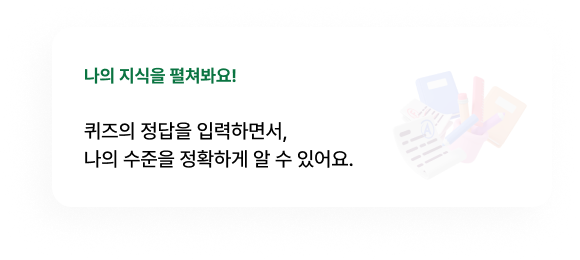
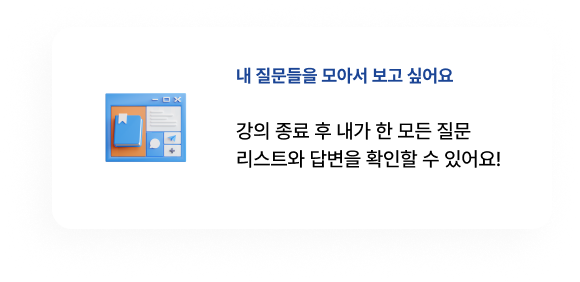
feat. 세종 메인화면

Changed region(s): [[0.1241, 0.2154, 0.869, 0.6462]]

diff --git a/src/templates/HomeSeJong/index.tsx b/src/templates/HomeSeJong/index.tsx
@@ -46,9 +46,9 @@ export function HomeSejongTemplate({ logged = false, tenantName = '' }: HomeSejo
             <p className="tw-absolute tw-top-[60px] md:tw-top-[116px] tw-text-xl md:tw-text-[32px] tw-text-left">
               <span className="tw-text-[40px] tw-font-bold tw-text-left">IoT, 더 나은 세상을 위한 연결 </span>
             </p>
-            <p className="tw-absolute  tw-top-[100px] md:tw-top-[180px] tw-text-lg md:tw-text-lg tw-font-medium tw-text-left">
-              IoT Convergence Open Sharing System & DevUs
-            </p>
+            <div className="tw-absolute  tw-top-[100px] md:tw-top-[180px] tw-text-lg md:tw-text-lg tw-font-medium tw-text-left">
+              IoT Convergence Open Sharing System & <span className="tw-font-bold">DevUs</span>
+            </div>
             <div
               onClick={() => {
                 router.push('/quiz');
@@ -139,22 +139,40 @@ export function HomeSejongTemplate({ logged = false, tenantName = '' }: HomeSejo
       >
         <div className="tw-w-full md:tw-w-[1120px] tw-h-[320px] md:tw-h-[450px] tw-relative tw-overflow-hidden tw-rounded-[20px]">
           <div className="tw-w-full md:tw-w-[1280px] tw-h-[391px] tw-absolute tw-left-0 md:tw-left-[-1px] tw-top-0 md:tw-top-[-30px] tw-bg-white/20" />
-          <p className="tw-absolute tw-left-[24px] tw-top-[40px] md:tw-left-[57px] md:tw-top-[85px] tw-text-base tw-font-medium tw-text-left tw-text-black">
+          <p className="tw-absolute tw-left-[24px] tw-top-[40px] md:tw-left-[57px] md:tw-top-[85px] tw-text-base tw-font-bold tw-text-left tw-text-black">
             IoT Convergence Open Sharing System
           </p>
-          <p className="tw-absolute tw-left-[24px] tw-top-[70px] md:tw-left-[57px] md:tw-top-[146px] tw-text-xl md:tw-text-[32px] tw-text-left tw-text-black">
+          <div className="tw-mt-[130px] tw-ml-[54px] ">
+            <p className="tw-text-[34px] tw-text-left tw-text-black">
+              <span className="tw-text-[34px] tw-text-left tw-text-black">MORE </span>
+              <span className="tw-text-[34px] tw-font-semibold tw-text-left tw-text-black">QUESTION</span>
+              <span className="tw-text-[34px] tw-text-left tw-text-black">, BETTER </span>
+              <span className="tw-text-[34px] tw-font-semibold tw-text-left tw-text-black">QUESTION</span>
+            </p>
+            <div className="tw-flex tw-mt-2">
+              <div className="tw-w-[166px] tw-ml-[110px] tw-h-[3px] tw-bg-[#1b4595]" />
+              <div className="tw-w-[166px] tw-ml-[154px] tw-h-[3px] tw-bg-[#1b4595]" />
+            </div>
+          </div>
+          ;
+          {/* <p className="tw-absolute tw-left-[24px] tw-top-[70px] md:tw-left-[57px] md:tw-top-[146px] tw-text-xl md:tw-text-[32px] tw-text-left tw-text-black">
             <span className="tw-text-xl md:tw-text-[32px] tw-text-left tw-text-black">CREATIVE </span>
             <span className="tw-text-xl md:tw-text-[32px] tw-font-bold tw-text-left tw-text-black">LEADERSHIP</span>
           </p>
-          <div className="tw-w-[48px] md:tw-w-[190px] tw-h-[2px] md:tw-h-[3px] tw-absolute tw-left-[60px] md:tw-left-[210px] tw-top-[90px] md:tw-top-[190px] tw-bg-[#1B4595]" />
+          <p className="tw-absolute tw-left-[224px] tw-top-[70px] md:tw-left-[257px] md:tw-top-[146px] tw-text-xl md:tw-text-[32px] tw-text-left tw-text-black">
+            <span className="tw-text-xl md:tw-text-[32px] tw-text-left tw-text-black">CREATIVE </span>
+            <span className="tw-text-xl md:tw-text-[32px] tw-font-bold tw-text-left tw-text-black">LEADERSHIP</span>
+          </p> */}
+          {/* <div className="tw-w-[48px] md:tw-w-[190px] tw-h-[2px] md:tw-h-[3px] tw-absolute tw-left-[60px] md:tw-left-[210px] tw-top-[90px] md:tw-top-[190px] tw-bg-[#1B4595]" /> */}
           <p className="tw-absolute tw-left-[24px] tw-top-[110px] md:tw-left-[57px] md:tw-top-[239px] tw-text-sm md:tw-text-base tw-font-medium tw-text-left tw-text-black">
-            각 분야의 전문가들이 메이커로서 핵심 질문과 아티클을 답으로 제시합니다.
+            누구나 처음은 어렵습니다. 생소한 키워드, 이해되지 않는 설명, 나만 모르는 것 같은 수업 내용들
             <br />
-            관리자는 클럽을 만들고 학습자들이 함께 풀 문제를 엄선합니다.
+            질문이 망설여진다면 이제는 AI조교에서 편하고 빠르게 질문하세요.
             <br />
-            학습자는 관리자만 따라가면 대한민국 최고의 전문가로 성장할 수 있습니다.
+            교수님이 직접 큐레이션한 자료와 강의 내용을 기반으로 AI가 실시간으로 답하고,
+            <br />
+            강의에서 학습자들이 질문한 내용을 교수님께 전달해 더 좋은 수업을 만듭니다.
           </p>
-
           <img
             src="/assets/images/main/006_1.png"
             className="tw-hidden lg:tw-block tw-w-[200px] md:tw-w-[360px] tw-h-[290px] md:tw-h-[360px] tw-absolute tw-left-[calc(50%-100px)] md:tw-left-[735px] tw-top-[100px] md:tw-top-[43px] tw-object-cover"
@@ -177,12 +195,12 @@ export function HomeSejongTemplate({ logged = false, tenantName = '' }: HomeSejo
           <div className="tw-w-full tw-flex tw-flex-col md:tw-flex-row tw-gap-4 md:tw-gap-10">
             <img
               src="/assets/images/main/memo1.png"
-              className="tw-w-full md:tw-w-1/2 tw-h-[195px] md:tw-h-auto tw-overflow-hidden tw-rounded-[20px] tw-m-1 md:tw-m-0"
+              className="tw-w-full md:tw-w-1/2 tw-h-[202px] md:tw-h-auto tw-overflow-hidden tw-rounded-[20px] tw-m-1 md:tw-m-0"
             />
 
             <img
               src="/assets/images/main/memo2.png"
-              className="tw-w-full md:tw-w-1/2 tw-h-[195px] md:tw-h-auto tw-object-cover tw-rounded-[20px] tw-m-1 md:tw-m-0"
+              className="tw-w-full md:tw-w-1/2 tw-h-[202px] md:tw-h-auto tw-object-cover tw-rounded-[20px] tw-m-1 md:tw-m-0"
             />
           </div>
         </div>
@@ -211,46 +229,32 @@ export function HomeSejongTemplate({ logged = false, tenantName = '' }: HomeSejo
 
           {/* 두 번째 섹션 */}
           <div
-            className={cx('tw-flex tw-flex-col md:tw-flex-row tw-justify-center tw-items-center tw-gap-6 md:tw-gap-12')}
+            className={cx(
+              'tw-flex tw-flex-col md:tw-flex-row tw-justify-center tw-items-center tw-gap-10 md:tw-gap-12',
+            )}
           >
-            <img
-              src="/assets/images/main/lec_1.png"
-              className="tw-w-full md:tw-w-1/2 tw-h-[195px]  tw-object-cover tw-rounded-[20px] "
-            />
-            <img
-              src="/assets/images/main/lec_2.png"
-              className="tw-w-full md:tw-w-1/2 tw-h-[195px] tw-object-cover tw-rounded-[20px] "
-            />
+            <img src="/assets/images/main/lec_1.png" className="tw-w-full md:tw-w-1/2 tw-h-[202px]  tw-object-cover " />
+            <img src="/assets/images/main/lec_2.png" className="tw-w-full md:tw-w-1/2 tw-h-[202px] tw-object-cover " />
           </div>
 
           {/* 세 번째 섹션 */}
           <div
             className={cx(
-              'tw-flex tw-flex-col md:tw-flex-row tw-justify-center tw-items-center tw-gap-6 md:tw-gap-12 ',
+              'tw-flex tw-flex-col md:tw-flex-row tw-justify-center tw-items-center tw-gap-6 md:tw-gap-12 tw-mt-2',
             )}
           >
-            <img
-              src="/assets/images/main/lec_3.png"
-              className="tw-w-full md:tw-w-1/2 tw-h-[195px] tw-object-cover tw-rounded-[20px]"
-            />
-            <img
-              src="/assets/images/main/lec_4.png"
-              className="tw-w-full md:tw-w-1/2 tw-h-[195px]  tw-object-cover tw-rounded-[20px]"
-            />
+            <img src="/assets/images/main/lec_3.png" className="tw-w-full md:tw-w-1/2 tw-h-[202px] tw-object-cover " />
+            <img src="/assets/images/main/lec_4.png" className="tw-w-full md:tw-w-1/2 tw-h-[202px]  tw-object-cover" />
           </div>
 
           {/* 네 번째 섹션 */}
           <div
-            className={cx('tw-flex tw-flex-col md:tw-flex-row tw-justify-center tw-items-center tw-gap-6 md:tw-gap-12')}
+            className={cx(
+              'tw-flex tw-flex-col md:tw-flex-row tw-justify-center tw-items-center tw-gap-6 md:tw-gap-12 tw-mt-2',
+            )}
           >
-            <img
-              src="/assets/images/main/lec_5.png"
-              className="tw-w-full md:tw-w-1/2 tw-h-[195px] tw-object-cover tw-rounded-[20px]"
-            />
-            <img
-              src="/assets/images/main/lec_6.png"
-              className="tw-w-full md:tw-w-1/2 tw-h-[195px] tw-object-cover tw-rounded-[20px] "
-            />
+            <img src="/assets/images/main/lec_5.png" className="tw-w-full md:tw-w-1/2 tw-h-[202px] tw-object-cover " />
+            <img src="/assets/images/main/lec_6.png" className="tw-w-full md:tw-w-1/2 tw-h-[202px] tw-object-cover" />
           </div>
         </div>
       </section>

diff --git a/src/stories/components/Header/index.tsx b/src/stories/components/Header/index.tsx
@@ -294,7 +294,10 @@ const Header = ({ darkBg, classOption, title, menuItem, activeIndex, setActiveIn
           {/* <div className={cx('header-link')}> */}
           <div onClick={handleGoHome} className={cx('header-link')}>
             {getFirstSubdomain() === 'iotcoss' ? (
-              <img src="/assets/images/header/sejong_logo.png" width={250} alt="logo" className={cx('image-logo')} />
+              <div className="tw-flex tw-items-center tw-gap-2">
+                <img src="/assets/images/header/sejong_logo.png" width={250} alt="logo" className={cx('image-logo')} />
+                <div className="tw-text-black tw-text-3xl tw-font-bold">AI조교</div>
+              </div>
             ) : (
               <img src="/assets/images/header/image_1.png" width={130} alt="logo" className={cx('image-logo')} />
             )}
